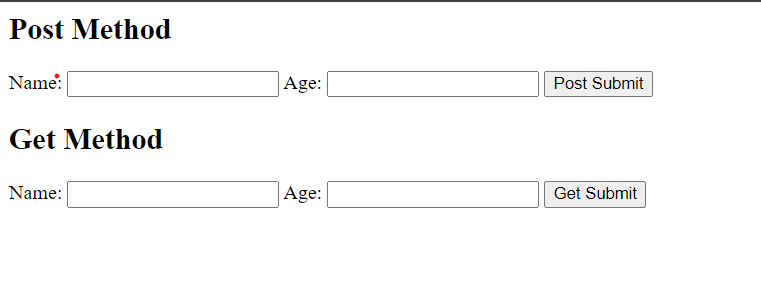
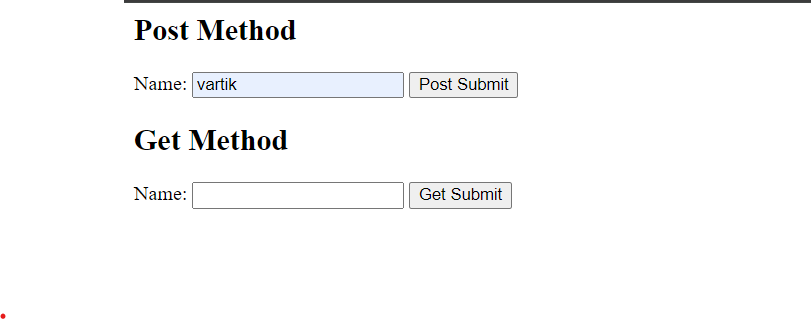
08 make short

diff --git a/08_passing_variables_through_url/index.php b/08_passing_variables_through_url/index.php
@@ -11,9 +11,7 @@
         <label for="name">Name:</label>
         <input type="text" id="name" name="name" required>
 
-        <label for="age">Age:</label>
-        <input type="number" id="age" name="age" required>
-
+     
         <input type="submit" value="Post Submit">
     </form>
 
@@ -24,9 +22,7 @@
     <label for="name">Name:</label>
     <input type="text" id="name" name="name" required>
 
-    <label for="age">Age:</label>
-    <input type="number" id="age" name="age" required>
-
+  
     <input type="submit" value="Get Submit">
 </form>
 

diff --git a/08_passing_variables_through_url/get.php b/08_passing_variables_through_url/get.php
@@ -1,13 +1,8 @@
 <?php
 if ($_SERVER["REQUEST_METHOD"] == "GET") {
-    // Sanitize input
     $name = $_GET['name'];
-    $age = $_GET['age'];
 
     echo "<h2>GET Result</h2>";
     echo "<p>Name: $name</p>";
-    echo "<p>Age: $age</p>";
-} else {
-    echo "<p>No data received.</p>";
-}
+} 
 ?>

diff --git a/08_passing_variables_through_url/post.php b/08_passing_variables_through_url/post.php
@@ -1,12 +1,8 @@
 <?php
 if ($_SERVER["REQUEST_METHOD"] == "POST") {
     $name = $_POST['name'];
-    $age =$_POST['age'];
 
     echo "<h2>POST Result</h2>";
     echo "<p>Name: $name</p>";
-    echo "<p>Age: $age</p>";
-} else {
-    echo "<p>No data received.</p>";
-}
+} 
 ?>

diff --git a/08_passing_variables_through_url/README.md b/08_passing_variables_through_url/README.md
@@ -14,9 +14,7 @@
         <label for="name">Name:</label>
         <input type="text" id="name" name="name" required>
 
-        <label for="age">Age:</label>
-        <input type="number" id="age" name="age" required>
-
+     
         <input type="submit" value="Post Submit">
     </form>
 
@@ -27,14 +25,13 @@
     <label for="name">Name:</label>
     <input type="text" id="name" name="name" required>
 
-    <label for="age">Age:</label>
-    <input type="number" id="age" name="age" required>
-
+  
     <input type="submit" value="Get Submit">
 </form>
 
 </body>
 </html>
+
 
 
 ```
@@ -46,14 +43,10 @@
 <?php
 if ($_SERVER["REQUEST_METHOD"] == "POST") {
     $name = $_POST['name'];
-    $age =$_POST['age'];
 
     echo "<h2>POST Result</h2>";
     echo "<p>Name: $name</p>";
-    echo "<p>Age: $age</p>";
-} else {
-    echo "<p>No data received.</p>";
-}
+} 
 ?>
 
 
@@ -65,18 +58,12 @@ if ($_SERVER["REQUEST_METHOD"] == "POST") {
 ```html
 <?php
 if ($_SERVER["REQUEST_METHOD"] == "GET") {
-    // Sanitize input
     $name = $_GET['name'];
-    $age = $_GET['age'];
 
     echo "<h2>GET Result</h2>";
     echo "<p>Name: $name</p>";
-    echo "<p>Age: $age</p>";
-} else {
-    echo "<p>No data received.</p>";
-}
+} 
 ?>
-
 
 ```
 ## Output
